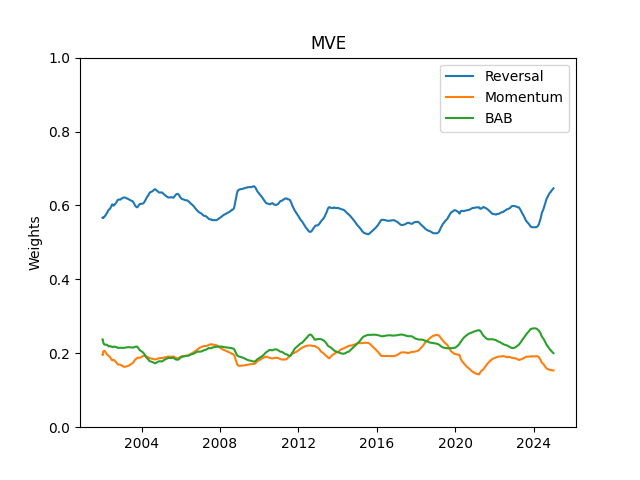
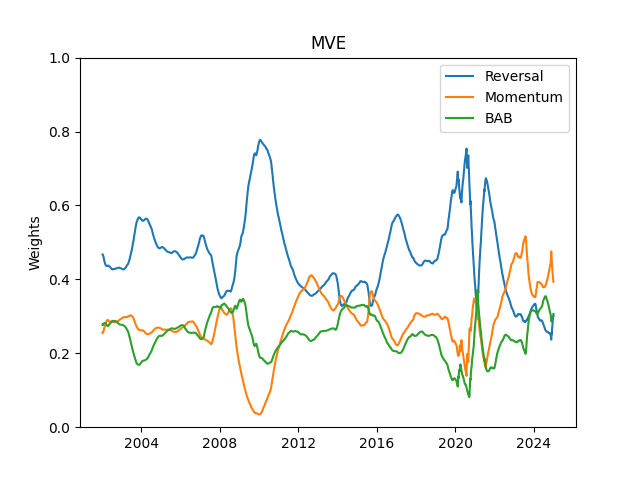
Added returns plots. Fixed code for MVE returns signal weights.

Changed region(s): [[0.1562, 0.2812, 0.875, 0.875], [0.5, 0.4062, 0.5625, 0.4688]]

diff --git a/pipelines/mve_returns.py b/pipelines/mve_returns.py
@@ -4,6 +4,22 @@ import datetime as dt
 from pathlib import Path
 import numpy as np
 from pipelines.configs import configs
+import seaborn as sns
+import matplotlib.pyplot as plt
+
+def save_returns_plot(data: pl.DataFrame, signal_name: str):
+    title = {
+        'momentum': 'Momentum',
+        'reversal': 'Reversal',
+        'bab': 'BAB'
+    }[signal_name]
+
+    sns.lineplot(data, x='date', y='return')
+    plt.title(title)
+    plt.xlabel(None)
+    plt.ylabel('Cumulative Log Return (%)')
+    plt.savefig(f"results/returns/{signal_name}.png")
+    plt.clf()
 
 start = dt.date(2000, 1, 1)
 end = dt.date(2024, 12, 31)
@@ -39,6 +55,21 @@ for config in configs:
     volatility = portfolio_returns['return'].std() * np.sqrt(252)
     print(f"{signal_name}:")
     print(f"    Volatility (%): {volatility:2%}")
+
+    cumulative_returns = (
+        portfolio_returns
+        .sort('date')
+        .with_columns(
+            pl.col('return')
+            .log1p()
+            .cum_sum()
+            .mul(100)
+        )
+    )
+    save_returns_plot(
+        data=cumulative_returns,
+        signal_name=signal_name
+    )
 
     # Save returns
     file_path = Path(f"data/mve_returns/{signal_name}.parquet")

diff --git a/experiments/mve.py b/experiments/mve.py
@@ -2,14 +2,18 @@ import polars as pl
 import numpy as np
 from utils import save_lineplot, save_stackplot
 from pathlib import Path
+import datetime as dt
 
 signal_names = ['reversal', 'momentum', 'bab']
+start = dt.date(2001, 1, 1)
+end = dt.date(2024, 12, 31)
 WINDOW = 252
 
-# Load returns (quantile for now)
+# Load returns (mve)
 returns_list = []
 for signal_name in signal_names:
-    returns = pl.read_parquet(f"data/quantile_returns/{signal_name}.parquet")
+    returns = pl.read_parquet(f"data/mve_returns/{signal_name}.parquet")
+    returns = returns.filter(pl.col('date').is_between(start, end)).sort('date')
     returns = returns.with_columns(pl.lit(signal_name).alias('name'))
     returns_list.append(returns)
 
@@ -37,8 +41,8 @@ for t in range(WINDOW, len(R_full)):
     # Normalize
     weights = weights / weights.sum()
 
-    # Softmax
-    exp_s = np.exp(weights)
+    # Softmax (shift by max for numerical stability)
+    exp_s = np.exp(weights - weights.max())
     weights = exp_s / exp_s.sum()
 
     rows.append(

diff --git a/experiments/bayesian.py b/experiments/bayesian.py
@@ -2,8 +2,11 @@ import polars as pl
 import numpy as np
 from utils import save_lineplot, save_stackplot
 from pathlib import Path
+import datetime as dt
 
 signal_names = ['reversal', 'momentum', 'bab']
+start = dt.date(2001, 1, 1)
+end = dt.date(2024, 12, 31)
 WINDOW = 252
 K = 3
 
@@ -11,10 +14,11 @@ K = 3
 mu_0 = np.ones(K) / K
 Sigma_0 = (1.0 / WINDOW) * np.eye(K)
 
-# Load returns (quantile)
+# Load returns (mve)
 returns_list = []
 for signal_name in signal_names:
-    returns = pl.read_parquet(f"data/quantile_returns/{signal_name}.parquet")
+    returns = pl.read_parquet(f"data/mve_returns/{signal_name}.parquet")
+    returns = returns.filter(pl.col('date').is_between(start, end)).sort('date')
     returns = returns.with_columns(pl.lit(signal_name).alias('name'))
     returns_list.append(returns)
 
@@ -22,7 +26,6 @@ returns: pl.DataFrame = pl.concat(returns_list)
 returns = (
     returns
     .pivot(index='date', on='name', values='return')
-    .drop_nulls()
     .sort('date')
 )
 
